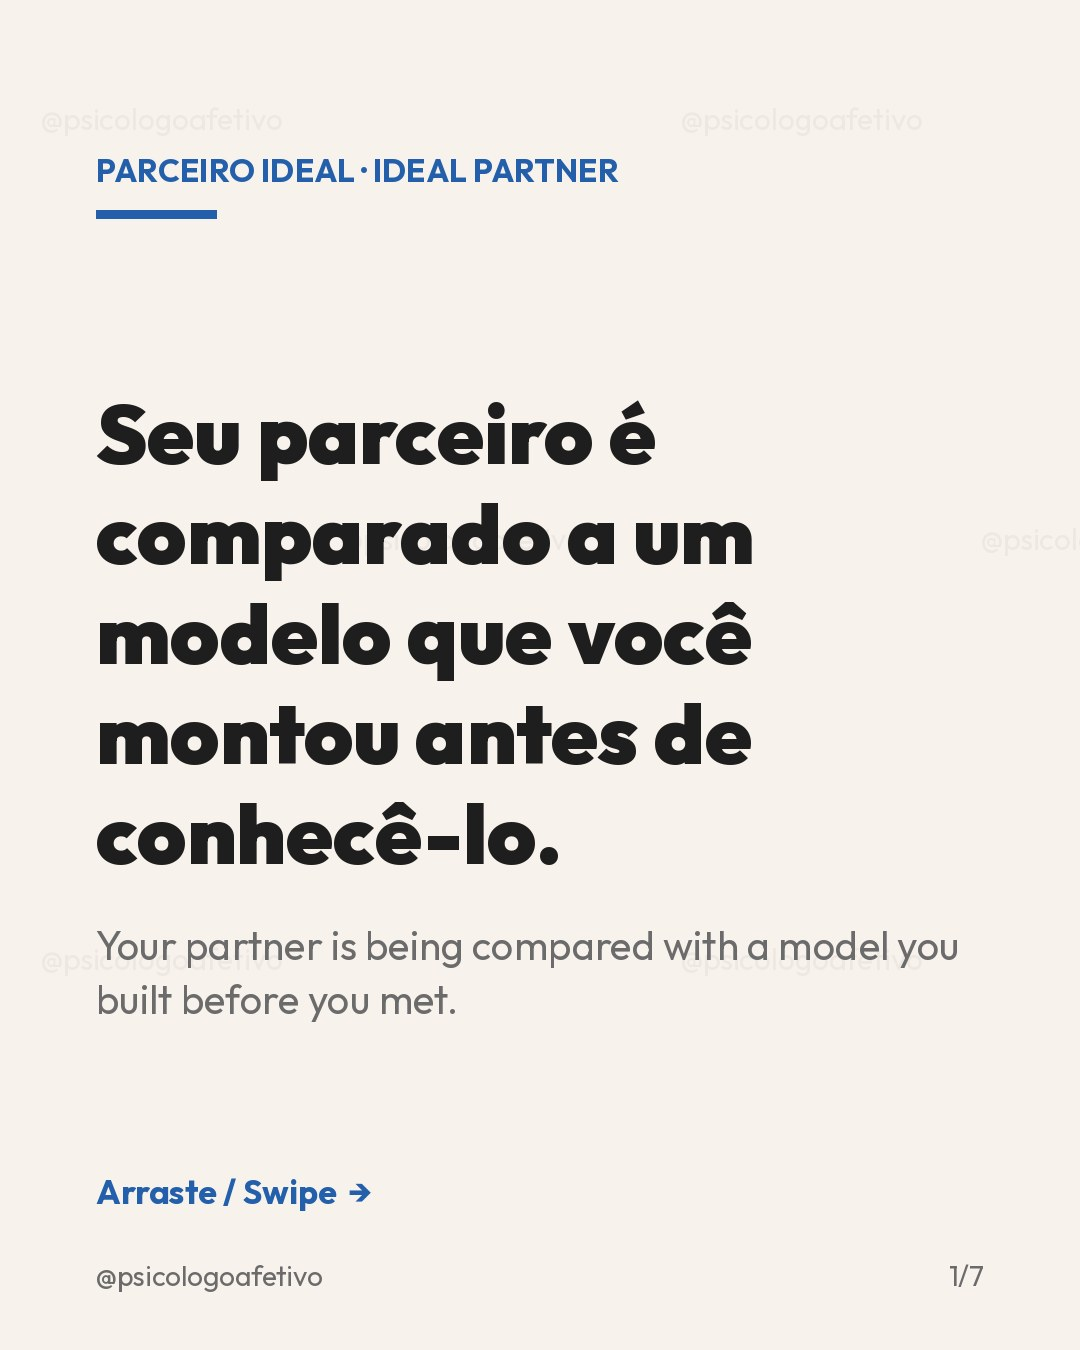
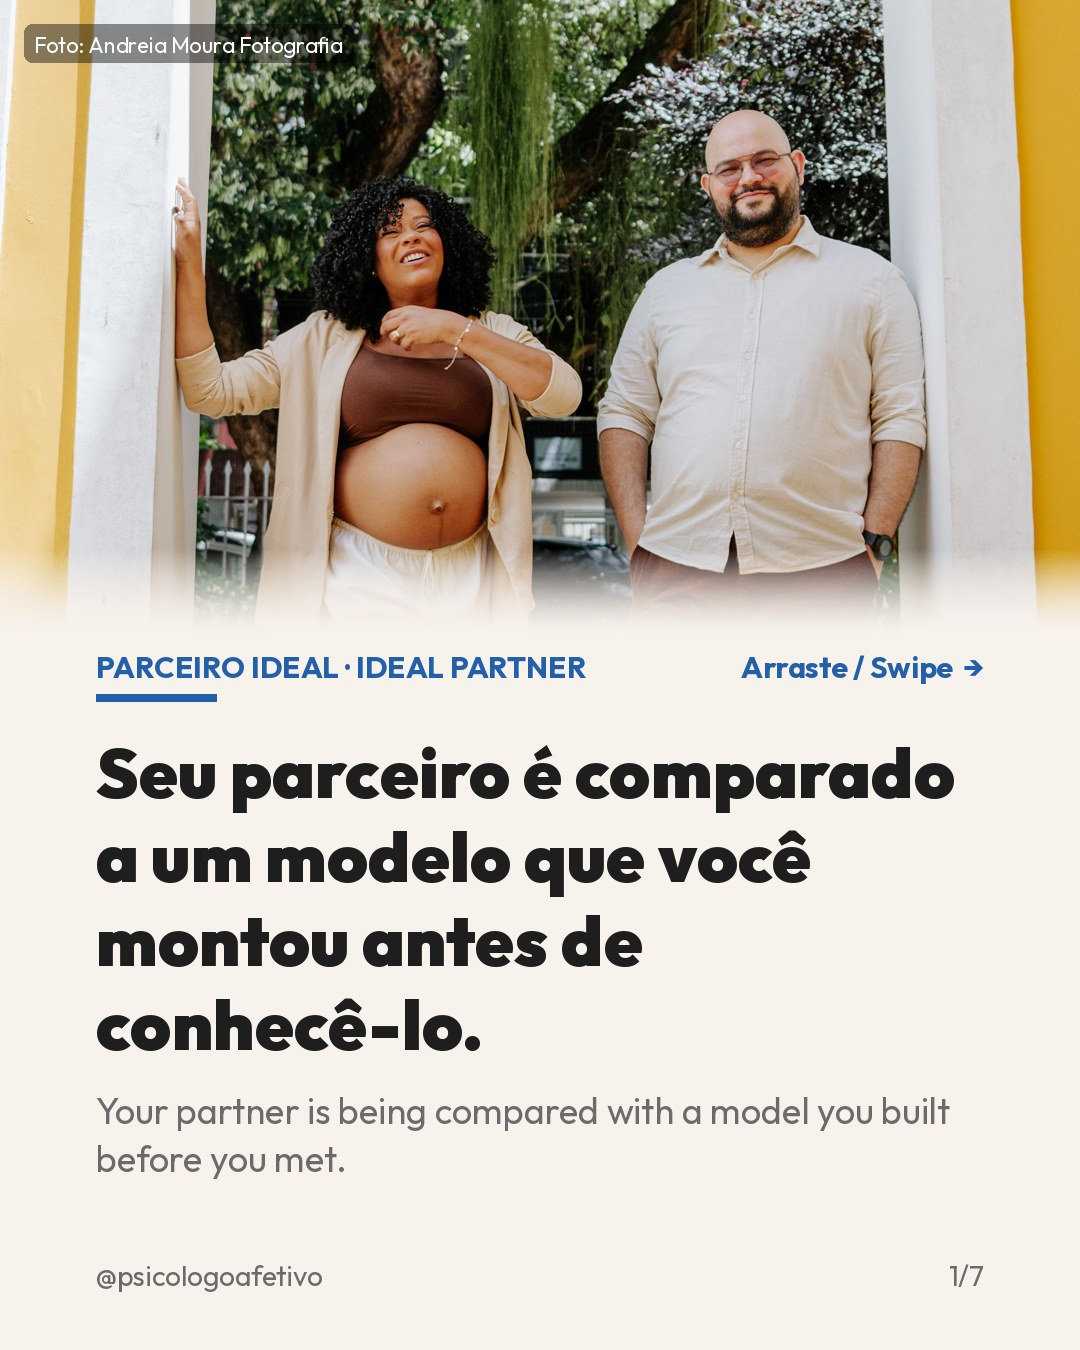
Capas com foto do ensaio (Andreia Moura Fotografia): m3 virou amizade e r02 parceiro ideal
Claude-Session: https://claude.ai/code/session_01TcKyyZQCCvFfpbghFjhxzi

diff --git a/content-ops/tools/photocover.py b/content-ops/tools/photocover.py
@@ -1,0 +1,34 @@
+# Capa com foto (ensaio Andreia Moura Fotografia) para carrosséis já agendados
+from PIL import Image, ImageDraw, ImageOps
+from render import font, wrap, BG, INK, BLUE, MUTED, W, H, M
+
+def photo_cover(photo, pillar, title, en, idx_total, focus_y=0.35, credit="Foto: Andreia Moura Fotografia"):
+    ph = ImageOps.exif_transpose(Image.open(photo)).convert("RGB")
+    im = Image.new("RGB", (W, H), BG)
+    d = ImageDraw.Draw(im, "RGBA")
+    ft = font(70, 900); fe = font(36, 400)
+    tl = wrap(d, title, ft, W - 2 * M); el = wrap(d, en, fe, W - 2 * M)
+    block_h = 60 + 46 + len(tl) * 84 + 24 + len(el) * 48 + 150
+    top = H - block_h
+    im.paste(ImageOps.fit(ph, (W, top + 60), centering=(0.5, focus_y)), (0, 0))
+    d = ImageDraw.Draw(im, "RGBA")
+    r, g, b = Image.new("RGB", (1, 1), BG).getpixel((0, 0))
+    grad = 90
+    for i in range(grad):
+        d.rectangle((0, top - grad + i, W, top - grad + i + 1), fill=(r, g, b, int(255 * i / grad)))
+    d.rectangle((0, top, W, H), fill=(r, g, b, 255))
+    y = top + 10
+    d.text((M, y), pillar, font=font(30, 700), fill=BLUE); y += 46
+    d.rectangle((M, y, M + 120, y + 7), fill=BLUE); y += 34
+    for ln in tl: d.text((M, y), ln, font=ft, fill=INK); y += 84
+    y += 24
+    for ln in el: d.text((M, y), ln, font=fe, fill=MUTED); y += 48
+    f = font(28, 400)
+    d.text((M, H - 92), "@psicologoafetivo", font=f, fill=MUTED)
+    d.text((W - M - d.textlength(idx_total, font=f), H - 92), idx_total, font=f, fill=MUTED)
+    sw = "Arraste / Swipe  →"; fs = font(30, 700)
+    d.text((W - M - d.textlength(sw, font=fs), top + 10), sw, font=fs, fill=BLUE)
+    fc = font(22, 400); tw = d.textlength(credit, font=fc)
+    d.rounded_rectangle((24, 24, 24 + tw + 20, 24 + 38), 8, fill=(0, 0, 0, 110))
+    d.text((34, 31), credit, font=fc, fill=(255, 255, 255))
+    return im
